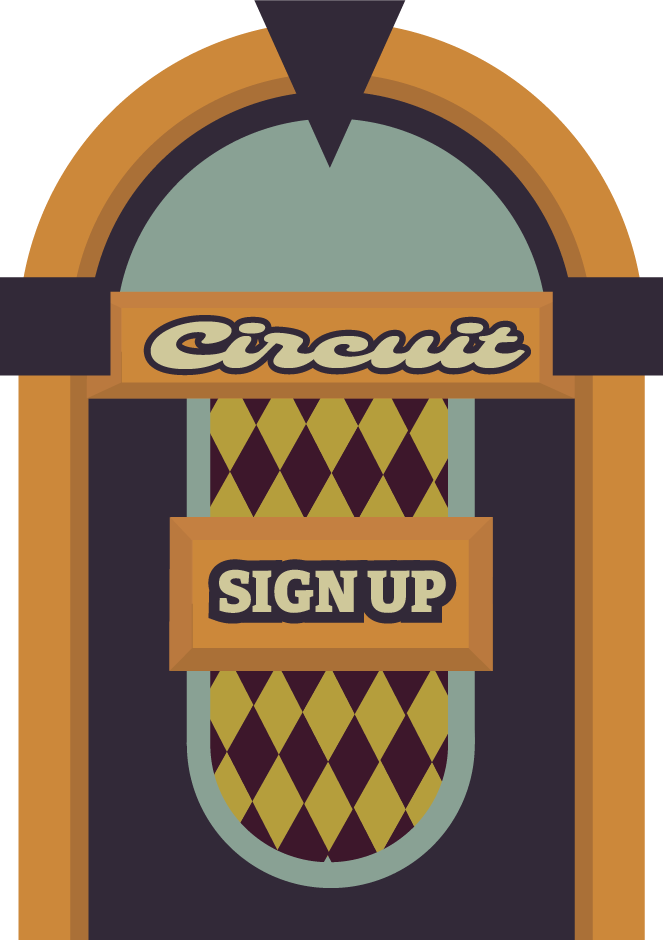
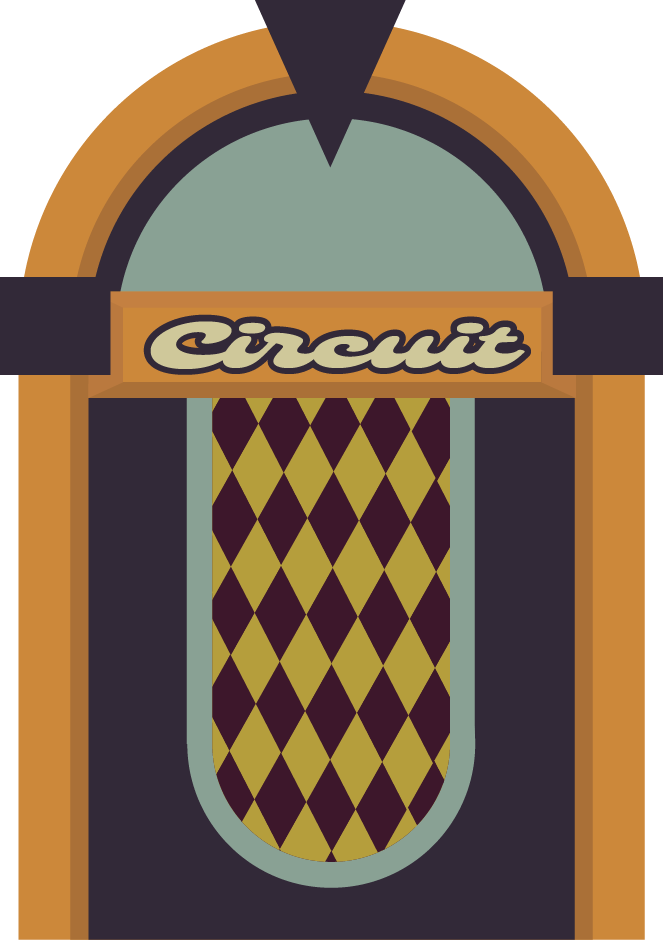
replaced welcome text with png; added loading screen

Changed region(s): [[0.2413, 0.4011, 0.7541, 0.9255]]

diff --git a/style.css b/style.css
@@ -5,8 +5,8 @@
 
 .main {
   background-color: #A84217;
-  width: 100;
-	height: 100;
+  width: 100%;
+	height: 100%;
 	
 	position: absolute;
 	top:0;
@@ -28,29 +28,16 @@
 }
 
 div#welcome {
-  height: 20%;
-  font-family: Genty;
-  font-size: 3em;
-  letter-spacing: 0.15em;
-  /* color: white; */
+  height: 30%;
 }
 
-h1 {
-  color: black;
-  -webkit-text-fill-color: #332838; /* Will override color (regardless of order) */
-  -webkit-text-stroke-width: 0.02em;
-  -webkit-text-stroke-color: #CFC89A;
-  /* text-shadow:
-       3px 3px 0 #000,
-     -1px -1px 0 #000,  
-      1px -1px 0 #000,
-      -1px 1px 0 #000,
-       1px 1px 0 #000; */
+div#welcome img {
+  width: 75%;
 }
 
 div#jukebox {
   position:relative;
-  height: 80%;
+  height: 70%;
   /* overflow: hidden; */
   margin: 0;
   border: 0;
@@ -92,3 +79,133 @@ animation-iteration-count: infinite;
 animation-duration: 0.5s;
 animation-direction: alternate;
 }
+
+
+/* Loading Screen */
+/* Loading Screen CSS */
+#loadingscreen{
+  background-color: #A84217;
+  position: fixed;
+  height: 100%;
+  width: 100%;
+  overflow: hidden;
+  top: 0;
+  left: 0;
+  z-index: 9999;
+  text-align: center;
+  -webkit-transition: opacity 1.5s;
+  transition: opacity 1.5s;
+}
+#loadingscreen span{
+  color: #dddddd;
+  width: 100vh;
+  padding: 0;
+}
+#loadingRing {
+  display: inline-block;
+  position: absolute;
+  top: 50%;
+  left: 50%;
+  width: 256px;
+  height: 256px;
+  margin-left: -128px;
+  margin-top: -128px;
+}
+#loadingRing div {
+  box-sizing: border-box;
+  display: block;
+  position: absolute;
+  width: 256px;
+  height: 256px;
+  border: 8px solid #fff;
+  border-radius: 50%;
+  animation: lds-ring 1.2s cubic-bezier(0.17, .88, 0.73, .12) infinite;
+  border-color: #fff transparent transparent transparent;
+}
+#loadingRing div:nth-child(1) {
+  animation-delay: -0.45s;
+}
+#loadingRing div:nth-child(2) {
+  animation-delay: -0.3s;
+}
+#loadingRing div:nth-child(3) {
+  animation-delay: -0.15s;
+}
+
+@keyframes lds-ring {
+  0% {
+       transform: rotate(0deg);
+  }
+  100% {
+       transform: rotate(360deg);
+  }
+}
+
+@-webkit-keyframes lds-ring {
+  0% {
+   transform: rotate(0deg);
+  }
+  100% {
+       transform: rotate(360deg);
+  }
+}
+
+@-moz-keyframes lds-ring {
+  0% {
+  transform: rotate(0deg);
+  }
+  100% {
+       transform: rotate(360deg);
+  }
+}
+  
+@-o-keyframes lds-ring {
+  0% {
+       transform: rotate(0deg);
+  }
+  100% {
+       transform: rotate(360deg);
+  }
+}
+
+#loadingscreen #logo {
+  position: relative;
+  width: 52vh;
+  height: 52vh;
+  top: 50%;
+  -webkit-transform: translateY(-56%);
+  transform: translateY(-56%);
+  -webkit-transition: opacity 1.5s;
+  transition: opacity 1.5s;
+  margin: auto;
+}
+#loadingscreen #circuit-logo {
+  z-index: 99999;
+  width: 100%;
+  height: 100%;
+  -webkit-animation-delay: 1.5s;
+  animation-delay: 1.5s;
+  -webkit-animation-timing-function: ease;
+  animation-timing-function: ease;
+  -webkit-transition: -webkit-transform 0.2s;
+  transition: -webkit-transform 0.2s;
+  transition: transform 0.2s;
+  transition: transform 0.2s, -webkit-transform 0.2s;
+} 
+#loadingscreen #circuit-logo:hover{
+  z-index: 99999;
+  transform: scale(1.1);
+  transition: all ease 500ms;
+}
+#loadingscreen #disclaimer {
+  z-index: 9999;
+  position: absolute;
+  bottom: 10%;
+  right: 50%;
+  -webkit-transform: translateX(50%);
+  transform: translateX(50%);
+  color: rgb(2, 2, 2);
+  font-size: 2.25vh;
+  text-align: center;
+}
+/* End of Loading Screen */

diff --git a/index.html b/index.html
@@ -7,17 +7,33 @@
      <title>UP Circuit 20A App Form</title>
      <link rel="icon" href="img/upcircuitformal_small.png" type="image/png">
      <link rel="stylesheet" href="style.css">
+     <script src="https://ajax.googleapis.com/ajax/libs/jquery/3.4.1/jquery.min.js"></script>
+     <script src="scripts.js" type="text/javascript"></script>
   </head>
   <body>
+
+    <div id="loadingscreen">
+      <div id="logo">
+           <img src="img/upcircuitformal_small.png" alt="U.P. Circuit Logo" id="circuit-logo">
+      </div>
+      <div id="loadingRing">
+           <div></div>
+           <div></div>
+           <div></div>
+           <div></div>
+      </div>
+    </div>
+
     <div class="main">
       <div id="welcome" class="container">
-        <h1 class="welcome-text">Welcome Applicant!</h1>
+        <img src="img/welcome.png">
       </div>
       <div id="jukebox" class="container">
         <img class="bottom" src="img/jukebox2.png">
         <img class="top" src="img/jukebox1.png">
       </div>
     </div>
+
     <!-- <form action="https://docs.google.com/forms/u/0/d/e/1FAIpQLSc_zRYqJnlTjBmnVDqXQQ1UzSH3DtX4E9zjKATOdFzfqxsTrg/formResponse">
       <input type="text" placeholder="Last Name*" name="entry.750995626" required>   
       <input type="text" placeholder="First Name*" name="entry.1661037685" required>

diff --git a/scripts.js b/scripts.js
@@ -1,0 +1,29 @@
+$(window).on("load", function(){
+// Loading Screen Fade Delay
+     var delayTimer = 1000; // Delay in milliseconds (ms)
+     $("#loadingRing").delay(delayTimer).fadeOut();
+
+     $("#circuit-logo").click(function(){
+          $(this).scrollTop(0);
+          $('#loadingscreen').css({
+               opacity: '0'
+          }).delay(delayTimer).queue(function(next){
+          $(this).css({ zIndex: '-9980' });
+          next();
+          });
+     });
+
+    //  $('form').submit(function(){
+    //       $('.container').css({
+    //            opacity: '0'
+    //       }).delay(0).queue(function(next){
+    //            $(this).css({ zIndex: '-9950' });
+    //            next();
+    //       }).delay(1500).queue(function(next){
+    //            $('#end-container').css({ zIndex: '9940' });
+    //            $('#end-container').css({ opacity: '1' });
+    //            next();
+    //       });
+    //  });
+     
+});
